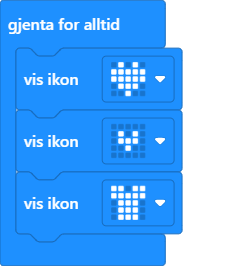
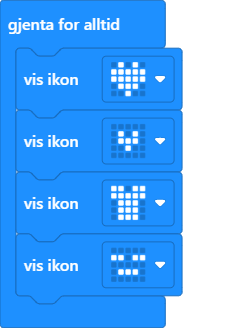
Enda et bilde

Changed region(s): [[0.0299, 0.0301, 0.8077, 0.9323], [0.0598, 0.6917, 0.359, 0.8421], [0.0, 0.9925, 0.0299, 1.0]]

diff --git a/main.ts b/main.ts
@@ -2,4 +2,5 @@ basic.forever(function () {
     basic.showIcon(IconNames.Heart)
     basic.showIcon(IconNames.SmallHeart)
     basic.showIcon(IconNames.TShirt)
+    basic.showIcon(IconNames.Asleep)
 })
